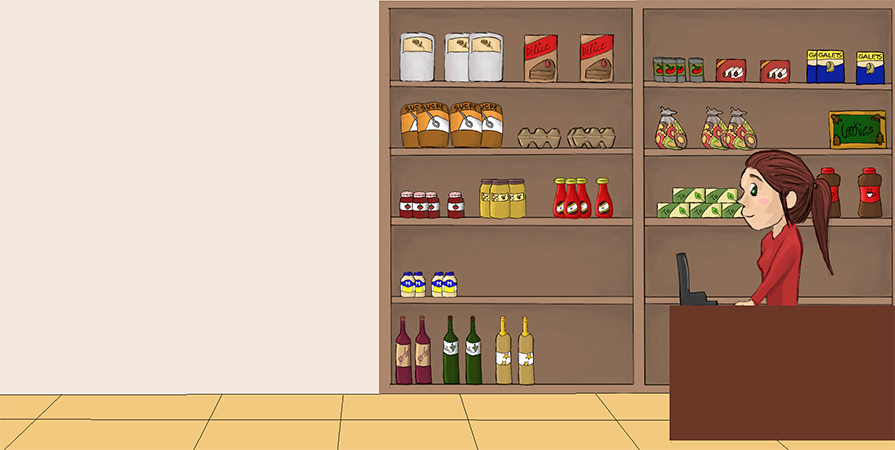
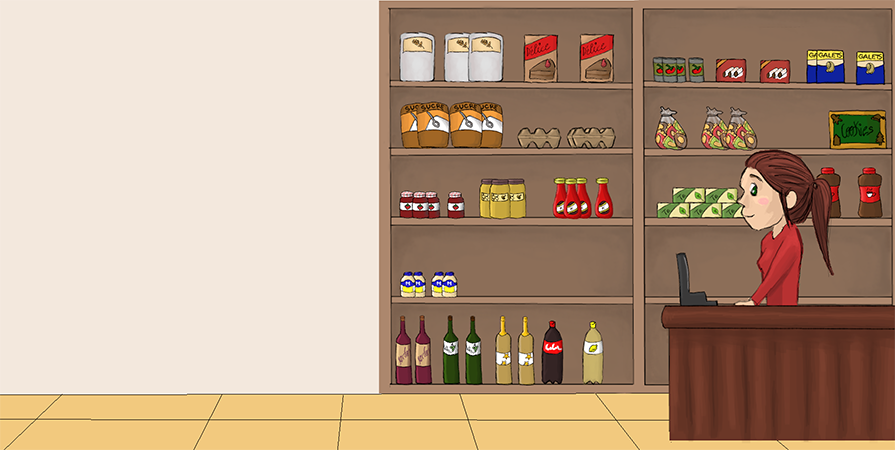
add more images

Changed region(s): [[0.6034, 0.7156, 0.6939, 0.8711], [0.724, 0.6844, 1.0, 0.7467], [0.7542, 0.6533, 1.0, 0.6844]]

diff --git a/webApp/game_mireia/js.js b/webApp/game_mireia/js.js
@@ -7,7 +7,9 @@ let products = [{ name: "Harina", img: "img/Harina.png", x: 410, y: 27 },
 {name: "Miel", img:"img/Miel.png", x:495, y: 169}, {name: "Ketchup", img:"img/Ketchup.png", x:565, y: 164},
 {name: "Mermelada", img:"img/Mermelada.png", x:415, y: 174}, {name: "Té", img:"img/Té.png", x:675, y: 151},
 {name: "Café", img:"img/Café.png", x:820, y: 162}, {name: "Vino Blanco", img:"img/Vino Blanco.png", x:430, y: 313},
-{name: "Vino Tinto", img:"img/Vino Tinto.png", x:385, y: 313}];
+{name: "Vino Tinto", img:"img/Vino Tinto.png", x:385, y: 313}, {name: "Cava", img:"img/Cava.png", x: 485, y:314},
+{name: "Cola", img: "img/Cola.png", x: 537, y:313}, {name: "Limonada", img:"img/Limonada.png", x: 575, y: 315},
+{name: "Naranjada", img: "img/Naranjada.png", x: 628, y: 315}];
 let lady = document.getElementById("lady");
 let interior = document.getElementById("interior");
 let list= document.getElementById("list");
@@ -55,8 +57,8 @@ function drawLady(){
 window.addEventListener("keydown", function (button) {
     let key = button.keyCode;
     if (key == 37 && character.x > 50) {
-        // LEFT
-        //if going left, turn right
+        // RIGHT
+        //if going right, turn left
         if (lady.getAttribute("src") == "img/ladyLeft.png" || lady.getAttribute("src") == "img/ladyLeft2.png") {
             lady.setAttribute("src", "img/ladyRight.png");
         }
@@ -76,7 +78,7 @@ window.addEventListener("keydown", function (button) {
         }
     } else if (key == 39 && character.x < 530) {
         console.log(character.x);
-        //RIGHT
+        //LEFT
         if (lady.getAttribute("src") == "img/ladyRight.png" || lady.getAttribute("src") == "img/ladyRight2.png") {
             lady.setAttribute("src", "img/ladyLeft.png");
         }
@@ -143,18 +145,18 @@ function dragElement(elmnt) {
       elmnt.style.left = (elmnt.offsetLeft - pos1) + "px";
     }
 
-    //410 && 925 is basket position
-        if(pos3 > 375 && pos4 >825){
-            debugger;
-            listElemements= document.querySelectorAll("li");
-            console.log(listElemements);
-            listElemements.forEach(element => {
+    // //410 && 925 is basket position
+    //     if(pos3 > 375 && pos4 >825){
+    //         debugger;
+    //         listElemements= document.querySelectorAll("li");
+    //         console.log(listElemements);
+    //         listElemements.forEach(element => {
                 
-                if(element.innerHTML === elmnt.id){
-                    element.style.textDecoration= "line-through";
-                }
-            });
-        }
+    //             if(element.innerHTML === elmnt.id){
+    //                 element.style.textDecoration= "line-through";
+    //             }
+    //         });
+    //     }
 
     }
   
@@ -170,6 +172,7 @@ function dragElement(elmnt) {
     }
   }
 
+  //Generate Random products
   function generateProductsToFind(){
     for(let i=0; i<5; i++){
         if(i===0){
@@ -185,10 +188,10 @@ function dragElement(elmnt) {
         }
         }while(isSame);
         }
-        productsToFind.push(randomNum);
-
-        
+        productsToFind.push(randomNum);  
     }
+
+    //Create elements in shop list
     productsToFind.forEach(element => {
         let listEl= document.createElement("li");
         listEl.textContent= products[element].name;

diff --git a/webApp/game_mireia/css.css b/webApp/game_mireia/css.css
@@ -39,7 +39,7 @@
 #speak{
     position: absolute;
     top: 200px;
-    left: 690px;
+    left: 675px;
     height: 20px;
     background-color: rgb(233, 167, 92, 0.3);
     border: black 1px solid;
@@ -65,8 +65,6 @@
 .divList > ul{
     list-style: none;
 }
-
-
 
 .noVisible{
     display: none;
